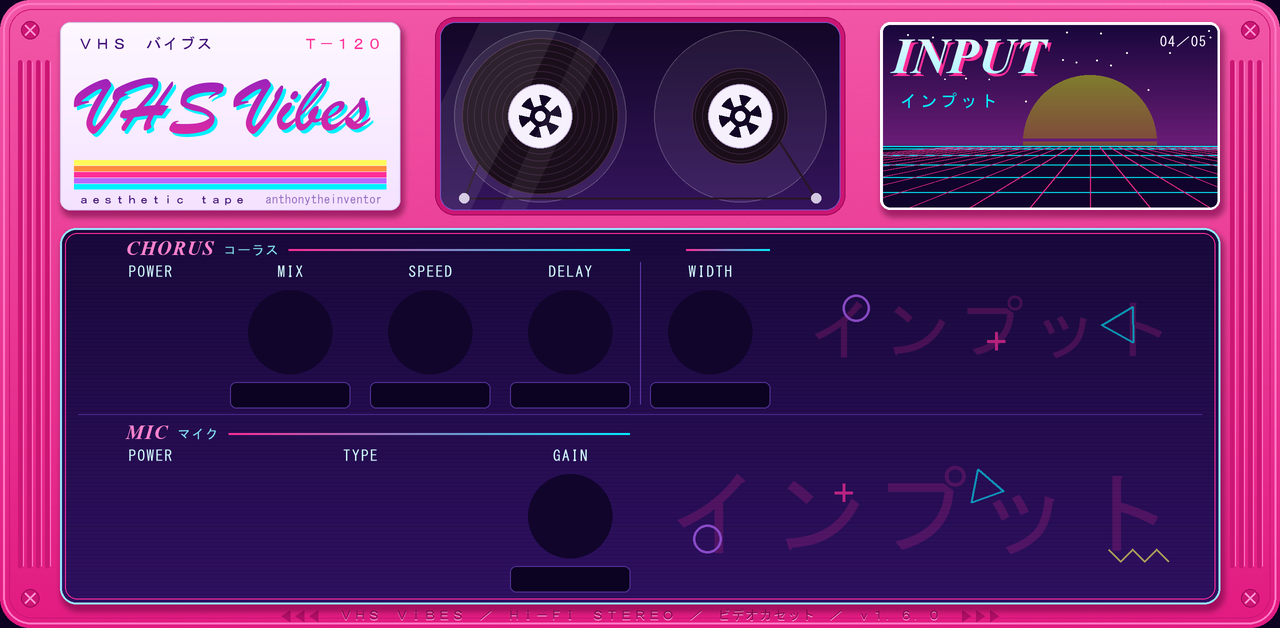
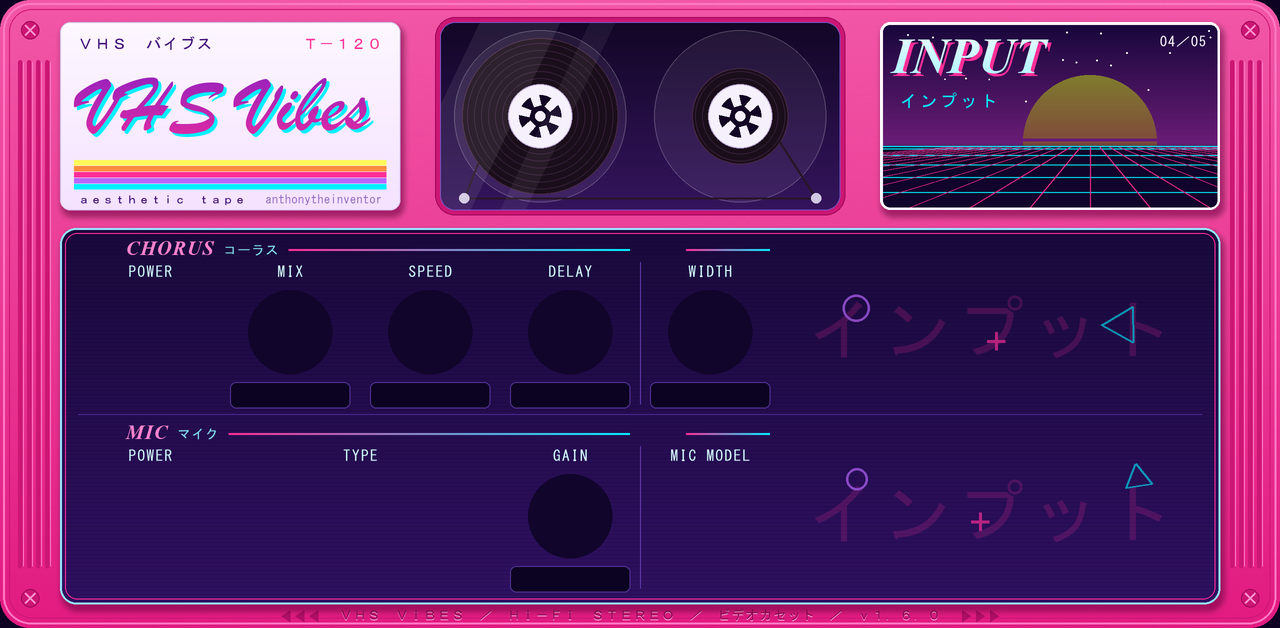
Skin: Mic Model on the INPUT page
A two-button segment switch captioned MIC MODEL, SIMPLE over MODELED, in
the empty block beside the MIC block (its own Q-Link group). The buttons
are stacked at the size of the Mic Type buttons next to them: MODELED does
not fit the 64-pixel buttons Sat Type uses side by side. Nothing else
moved.

Changed region(s): [[0.5938, 0.7564, 0.9062, 0.9076], [0.5312, 0.6656, 0.625, 0.8774]]

diff --git a/tools/make_skin.py b/tools/make_skin.py
@@ -131,7 +131,7 @@ PAGES = [
         ("CHORUS", "コーラス", ["Chorus", "Cho Mix", "Cho Speed", "Cho Delay"]),
         ("", "", ["Cho Width", None, None, None]),
         ("MIC", "マイク", ["Mic", "Mic Type", "<", "Mic Gain"]),
-        ("", "", [None, None, None, None]),
+        ("", "", ["Mic Model", None, None, None]),
     ]},
     {"name": "DECK", "jp": "デッキ", "file": "bg_deck.png", "blocks": [
         ("DECK", "デッキ", ["Deck On", "AGC", "Drift", None]),
@@ -145,7 +145,7 @@ PAGES = [
 CAPTIONS = {
     "Saturator": "POWER", "Chorus": "POWER", "Mic": "POWER",
     "Cho Mix": "MIX", "Cho Speed": "SPEED", "Cho Delay": "DELAY", "Cho Width": "WIDTH",
-    "Mic Type": "TYPE", "Mic Gain": "GAIN",
+    "Mic Type": "TYPE", "Mic Gain": "GAIN", "Mic Model": "MIC MODEL",
     "Flutter": "DEPTH", "Flut Rate": "RATE",
     "Wow Rate": "RATE", "Flutter 2": "FLUTTER", "Flut2 Rate": "RATE",
     "Hi Cut 2": "HI CUT", "Noise": "MASTER", "Noise Pos": "POSITION",
@@ -175,6 +175,7 @@ def swap_file(name):
 SEGMENTS = {
     "Noise Pos": ((64, 40), [(4, 50), (72, 50)], ["POST", "PRE"]),
     "Sat Type": ((64, 40), [(4, 50), (72, 50)], ["2-BAND", "VHS"]),
+    "Mic Model": ((130, 40), [(5, 28), (5, 74)], ["SIMPLE", "MODELED"]),   # stacked, as Mic Type beside it: MODELED does not fit 64 px
     "Mic Type": ((130, 40), [(7, 28), (143, 28), (7, 74), (143, 74)], ["CAMCORDER", "DYNAMIC", "PHONE", "BOOMBOX"]),
     "B-Type NR": ((130, 40), [(7, 28), (143, 28), (7, 74), (143, 74)], ["OFF", "REC", "PLAY", "ON"]),
 }
